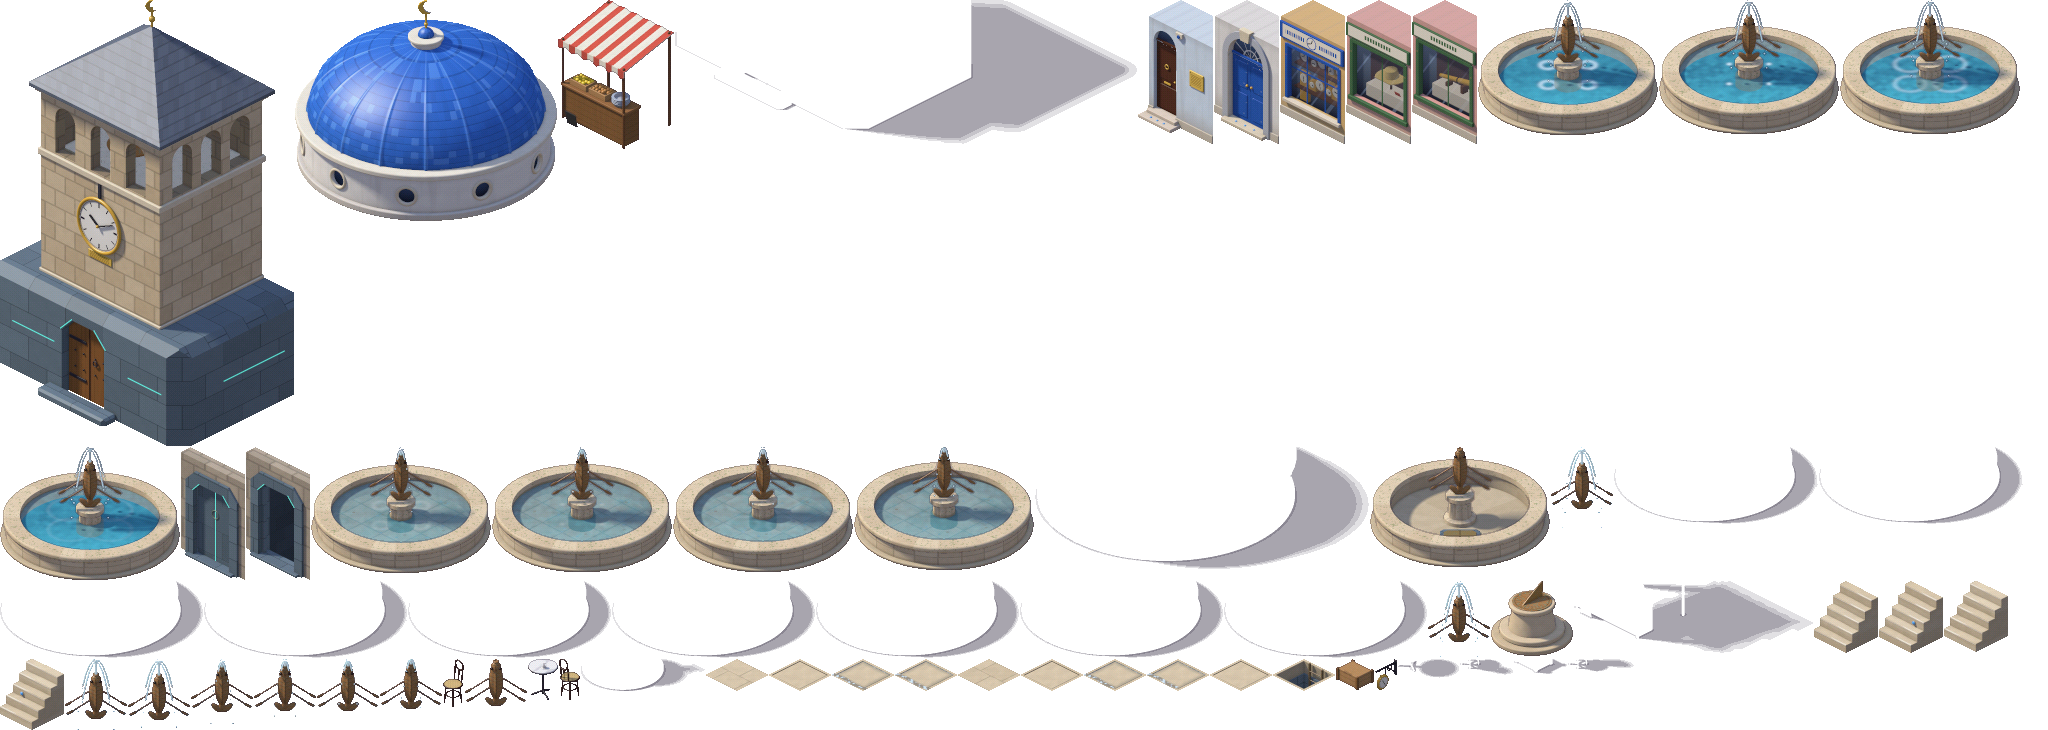
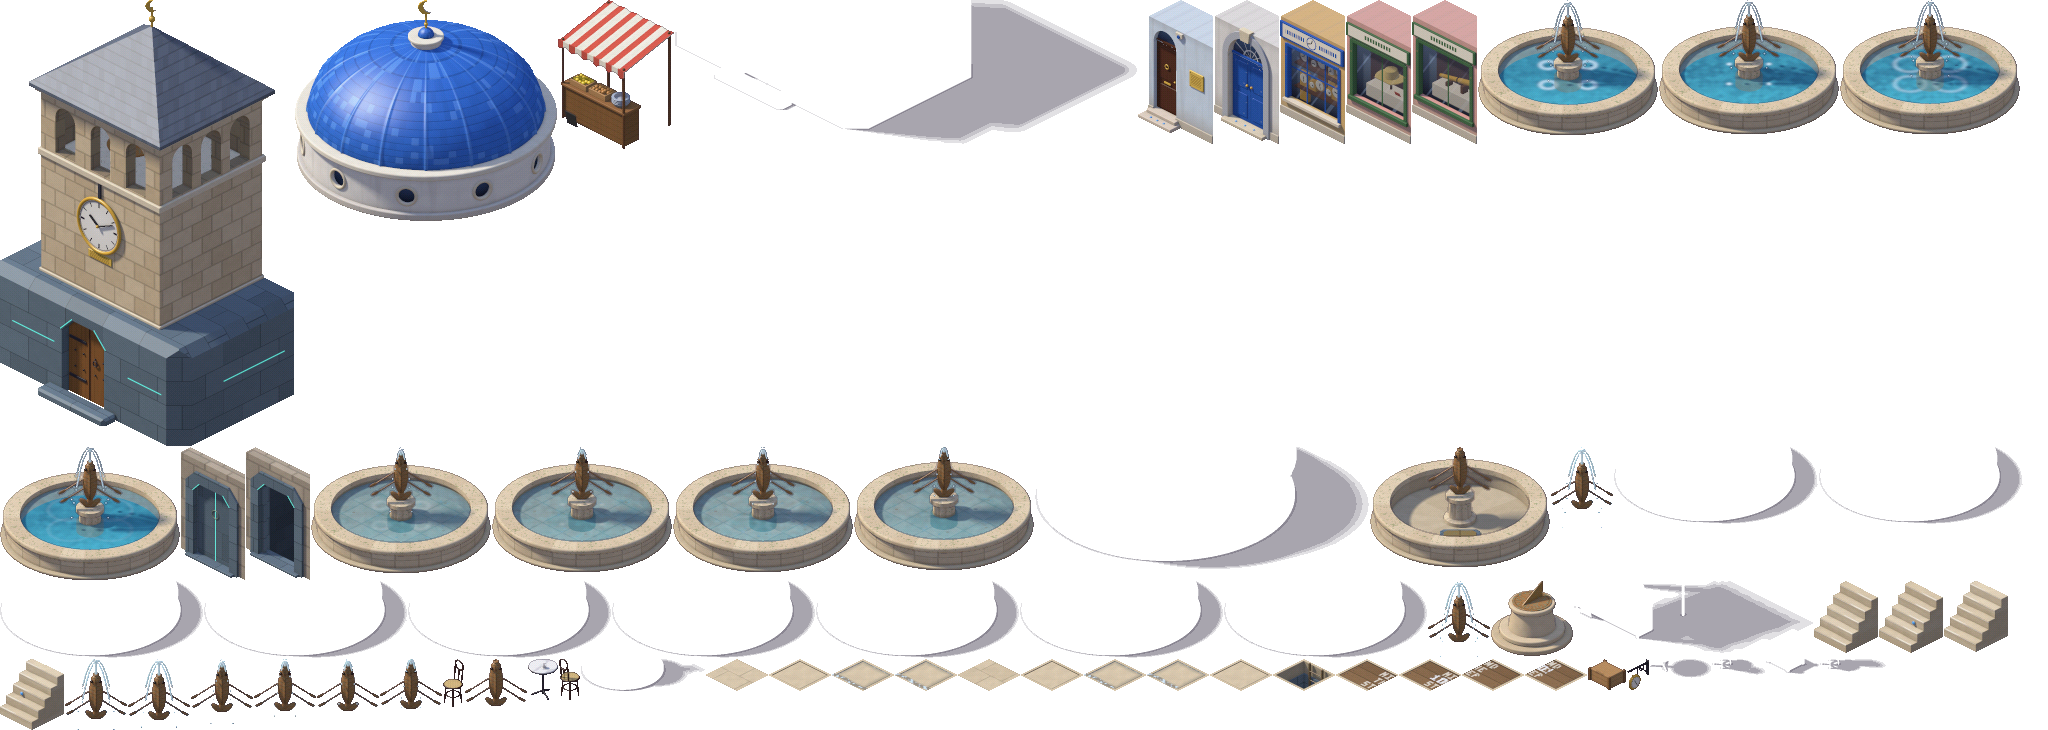
Iso: the crypt's cellar stairs; the hundredth step boarded over and chalked (Acts 4-6)

Changed region(s): [[0.6562, 0.9041, 0.9375, 0.9644]]

diff --git a/game/assets/iso/manifest.js b/game/assets/iso/manifest.js
@@ -3478,8 +3478,8 @@ export default {"tile":{"w":64,"h":32,"zPx":40},"sheets":{"cheryl":{"image":"che
 "sundial":[1491,581,82,75,41,55,2,2,52],
 "sundial.shadow":[581,659,124,32,42,11],
 "clockshop_front":[1280,0,65,144,49,120,2,1,96],
-"clock_sign":[1375,659,22,31,5,111,1,1,106],
-"clock_sign.shadow":[1635,659,1,1,14,143],
+"clock_sign":[1627,659,22,31,5,111,1,1,106],
+"clock_sign.shadow":[1887,659,1,1,14,143],
 "fountain_0":[1659,0,180,134,90,90,4,4,86],
 "fountain_0.shadow":[0,581,203,77,91,30],
 "fish_0":[128,659,62,69,31,90,4,4,86],
@@ -3513,13 +3513,13 @@ export default {"tile":{"w":64,"h":32,"zPx":40},"sheets":{"cheryl":{"image":"che
 "stall":[558,0,116,149,52,124,2,2,94],
 "stall.shadow":[1574,581,239,72,50,33],
 "cafe_table":[528,659,30,41,15,36,1,1,33],
-"cafe_table.shadow":[1398,659,61,19,11,7],
+"cafe_table.shadow":[1650,659,61,19,11,7],
 "cafe_chair":[443,659,21,48,10,43,1,1,36],
-"cafe_chair.shadow":[1568,659,66,13,10,5],
+"cafe_chair.shadow":[1820,659,66,13,10,5],
 "cafe_chair_back":[559,659,21,41,11,36,1,1,36],
-"cafe_chair_back.shadow":[1460,659,53,16,10,5],
-"mayor_crate":[1336,659,38,31,19,22,1,1,13],
-"mayor_crate.shadow":[1514,659,53,15,20,4],
+"cafe_chair_back.shadow":[1712,659,53,16,10,5],
+"mayor_crate":[1588,659,38,31,19,22,1,1,13],
+"mayor_crate.shadow":[1766,659,53,15,20,4],
 "steps_l":[1814,581,64,72,32,56,1,1,40],
 "steps_moon_l":[1879,581,64,72,32,56,1,1,40],
 "landing_l":[706,659,62,32,31,16,1,1,0],
@@ -3534,6 +3534,10 @@ export default {"tile":{"w":64,"h":32,"zPx":40},"sheets":{"cheryl":{"image":"che
 "hollow_wet_r_1":[1147,659,62,32,31,16,1,1,0],
 "hollow_open_l":[1210,659,62,32,31,16,1,1,0],
 "hollow_open_r":[1273,659,62,32,31,16,1,1,0],
+"lid_boarded_l":[1336,659,62,32,31,16,1,1,0],
+"lid_chalked_l":[1399,659,62,32,31,16,1,1,0],
+"lid_boarded_r":[1462,659,62,32,31,16,1,1,0],
+"lid_chalked_r":[1525,659,62,32,31,16,1,1,0],
 "founders_door":[181,447,64,133,48,109,2,1,96],
 "founders_door_open":[246,447,64,133,48,109,2,1,96]},"anims":{"fountain":{
 "frames":["fountain_0","fountain_1","fountain_2","fountain_3"],"ms":220},"fountain_low":{
@@ -3542,8 +3546,8 @@ export default {"tile":{"w":64,"h":32,"zPx":40},"sheets":{"cheryl":{"image":"che
 "frames":["fish_low_0","fish_low_1","fish_low_2","fish_low_3"],"ms":300},"hollow_wet_l":{
 "frames":["hollow_wet_l_0","hollow_wet_l_1"],"ms":300},"hollow_wet_r":{
 "frames":["hollow_wet_r_0","hollow_wet_r_1"],"ms":300}}},"rooms":{"image":"rooms.png","frames":{
-"shop_floor_0":[135,275,62,32,31,16,1,1,0],
-"shop_floor_1":[198,275,62,32,31,16,1,1,0],
+"shop_floor_0":[405,309,62,32,31,16,1,1,0],
+"shop_floor_1":[0,348,62,32,31,16,1,1,0],
 "shop_s_plain":[0,0,33,117,33,101,1,1,96],
 "shop_s_window":[34,0,33,117,33,101,1,1,96],
 "shop_s_door":[68,0,33,117,33,101,1,1,96],
@@ -3551,13 +3555,13 @@ export default {"tile":{"w":64,"h":32,"zPx":40},"sheets":{"cheryl":{"image":"che
 "shop_e_window":[136,0,33,117,0,101,1,1,96],
 "shop_e_door":[170,0,33,117,0,101,1,1,96],
 "shop_corner":[300,118,20,105,10,89,1,1,96],
-"shop_cut_x":[384,118,44,38,22,27,1,1,16],
-"shop_cut_y":[429,118,44,38,22,27,1,1,16],
-"shop_cut_door_x":[0,236,44,38,22,27,1,1,16],
-"shop_cut_door_y":[45,236,44,38,22,27,1,1,16],
-"shop_cut_corner":[126,314,24,28,12,22,1,1,16],
-"archive_floor_0":[261,275,62,32,31,16,1,1,0],
-"archive_floor_1":[324,275,62,32,31,16,1,1,0],
+"shop_cut_x":[195,236,44,38,22,27,1,1,16],
+"shop_cut_y":[240,236,44,38,22,27,1,1,16],
+"shop_cut_door_x":[285,236,44,38,22,27,1,1,16],
+"shop_cut_door_y":[330,236,44,38,22,27,1,1,16],
+"shop_cut_corner":[441,348,24,28,12,22,1,1,16],
+"archive_floor_0":[63,348,62,32,31,16,1,1,0],
+"archive_floor_1":[126,348,62,32,31,16,1,1,0],
 "archive_s_plain":[204,0,33,117,33,101,1,1,96],
 "archive_s_window":[238,0,33,117,33,101,1,1,96],
 "archive_s_door":[272,0,33,117,33,101,1,1,96],
@@ -3565,13 +3569,13 @@ export default {"tile":{"w":64,"h":32,"zPx":40},"sheets":{"cheryl":{"image":"che
 "archive_e_window":[340,0,33,117,0,101,1,1,96],
 "archive_e_door":[374,0,33,117,0,101,1,1,96],
 "archive_corner":[321,118,20,105,10,89,1,1,96],
-"archive_cut_x":[90,236,44,38,22,27,1,1,16],
-"archive_cut_y":[135,236,44,38,22,27,1,1,16],
-"archive_cut_door_x":[180,236,44,38,22,27,1,1,16],
-"archive_cut_door_y":[225,236,44,38,22,27,1,1,16],
-"archive_cut_corner":[151,314,24,28,12,22,1,1,16],
-"crypt_floor_0":[387,275,62,32,31,16,1,1,0],
-"crypt_floor_1":[450,275,62,32,31,16,1,1,0],
+"archive_cut_x":[375,236,44,38,22,27,1,1,16],
+"archive_cut_y":[420,236,44,38,22,27,1,1,16],
+"archive_cut_door_x":[465,236,44,38,22,27,1,1,16],
+"archive_cut_door_y":[0,309,44,38,22,27,1,1,16],
+"archive_cut_corner":[466,348,24,28,12,22,1,1,16],
+"crypt_floor_0":[189,348,62,32,31,16,1,1,0],
+"crypt_floor_1":[252,348,62,32,31,16,1,1,0],
 "crypt_s_plain":[102,118,32,117,32,101,1,1,96],
 "crypt_s_window":[135,118,32,117,32,101,1,1,96],
 "crypt_s_door":[168,118,32,117,32,101,1,1,96],
@@ -3579,13 +3583,13 @@ export default {"tile":{"w":64,"h":32,"zPx":40},"sheets":{"cheryl":{"image":"che
 "crypt_e_window":[234,118,32,117,0,101,1,1,96],
 "crypt_e_door":[267,118,32,117,0,101,1,1,96],
 "crypt_corner":[342,118,20,105,10,89,1,1,96],
-"crypt_cut_x":[270,236,44,38,22,27,1,1,16],
-"crypt_cut_y":[315,236,44,38,22,27,1,1,16],
-"crypt_cut_door_x":[360,236,44,38,22,27,1,1,16],
-"crypt_cut_door_y":[405,236,44,38,22,27,1,1,16],
-"crypt_cut_corner":[176,314,24,28,12,22,1,1,16],
-"lamp_floor_0":[0,314,62,32,31,16,1,1,0],
-"lamp_floor_1":[63,314,62,32,31,16,1,1,0],
+"crypt_cut_x":[45,309,44,38,22,27,1,1,16],
+"crypt_cut_y":[90,309,44,38,22,27,1,1,16],
+"crypt_cut_door_x":[135,309,44,38,22,27,1,1,16],
+"crypt_cut_door_y":[180,309,44,38,22,27,1,1,16],
+"crypt_cut_corner":[0,381,24,28,12,22,1,1,16],
+"lamp_floor_0":[315,348,62,32,31,16,1,1,0],
+"lamp_floor_1":[378,348,62,32,31,16,1,1,0],
 "lamp_s_plain":[408,0,33,117,33,101,1,1,96],
 "lamp_s_window":[442,0,33,117,33,101,1,1,96],
 "lamp_s_door":[476,0,33,117,33,101,1,1,96],
@@ -3593,11 +3597,15 @@ export default {"tile":{"w":64,"h":32,"zPx":40},"sheets":{"cheryl":{"image":"che
 "lamp_e_window":[34,118,33,117,0,101,1,1,96],
 "lamp_e_door":[68,118,33,117,0,101,1,1,96],
 "lamp_corner":[363,118,20,105,10,89,1,1,96],
-"lamp_cut_x":[450,236,44,38,22,27,1,1,16],
-"lamp_cut_y":[0,275,44,38,22,27,1,1,16],
-"lamp_cut_door_x":[45,275,44,38,22,27,1,1,16],
-"lamp_cut_door_y":[90,275,44,38,22,27,1,1,16],
-"lamp_cut_corner":[201,314,24,28,12,22,1,1,16]}}},"fonts":{"text":{"image":"ui.png","lineHeight":22,"baseline":14,"capHeight":14,"italic":false,"glyphs":{
+"lamp_cut_x":[225,309,44,38,22,27,1,1,16],
+"lamp_cut_y":[270,309,44,38,22,27,1,1,16],
+"lamp_cut_door_x":[315,309,44,38,22,27,1,1,16],
+"lamp_cut_door_y":[360,309,44,38,22,27,1,1,16],
+"lamp_cut_corner":[25,381,24,28,12,22,1,1,16],
+"crypt_stairs_down":[384,118,64,72,32,56,1,1,40],
+"crypt_stairs_up":[65,236,64,59,32,43,1,1,40],
+"crypt_stairs_left":[130,236,64,59,32,43,1,1,40],
+"crypt_stairs_right":[0,236,64,72,32,56,1,1,40]}}},"fonts":{"text":{"image":"ui.png","lineHeight":22,"baseline":14,"capHeight":14,"italic":false,"glyphs":{
 "0":[874,551,18,19,12],
 "1":[893,551,18,19,8],
 "2":[912,551,18,19,12],

diff --git a/game/dev/iso-rooms.js b/game/dev/iso-rooms.js
@@ -15,6 +15,10 @@ export const roomsIso = {
     S.prop('act2_interiors', 'crate_stack', 1, 9);
     S.prop('act2_interiors', 'lectern', 3, 10);
     S.room(9, 9, 6, 5, { set: 'lamp', windows: [[10, 8], [12, 8], [14, 8], [8, 10], [8, 12]], doors: [[11, 14]] });
+    S.add('rooms', 'crypt_stairs_right', 1, 12, 0, 1, 1, 0.3);
+    // The hundredth step's lid, Acts 4–6 and the epilogue, on a strip of landing.
+    for (const [x, f] of [[17, 'landing_l'], [18, 'landing_r'], [19, 'landing_l'], [20, 'landing_r']]) for (const y of [3, 5]) S.add('act2_landmarks', f, x, y, 0, 1, 1, 0);
+    for (const [x, f] of [[17, 'lid_boarded_l'], [18, 'lid_boarded_r'], [19, 'lid_chalked_l'], [20, 'lid_chalked_r']]) S.add('act2_landmarks', f, x, 4, 0, 1, 1, 0);
     return S.done();
   },
 };
